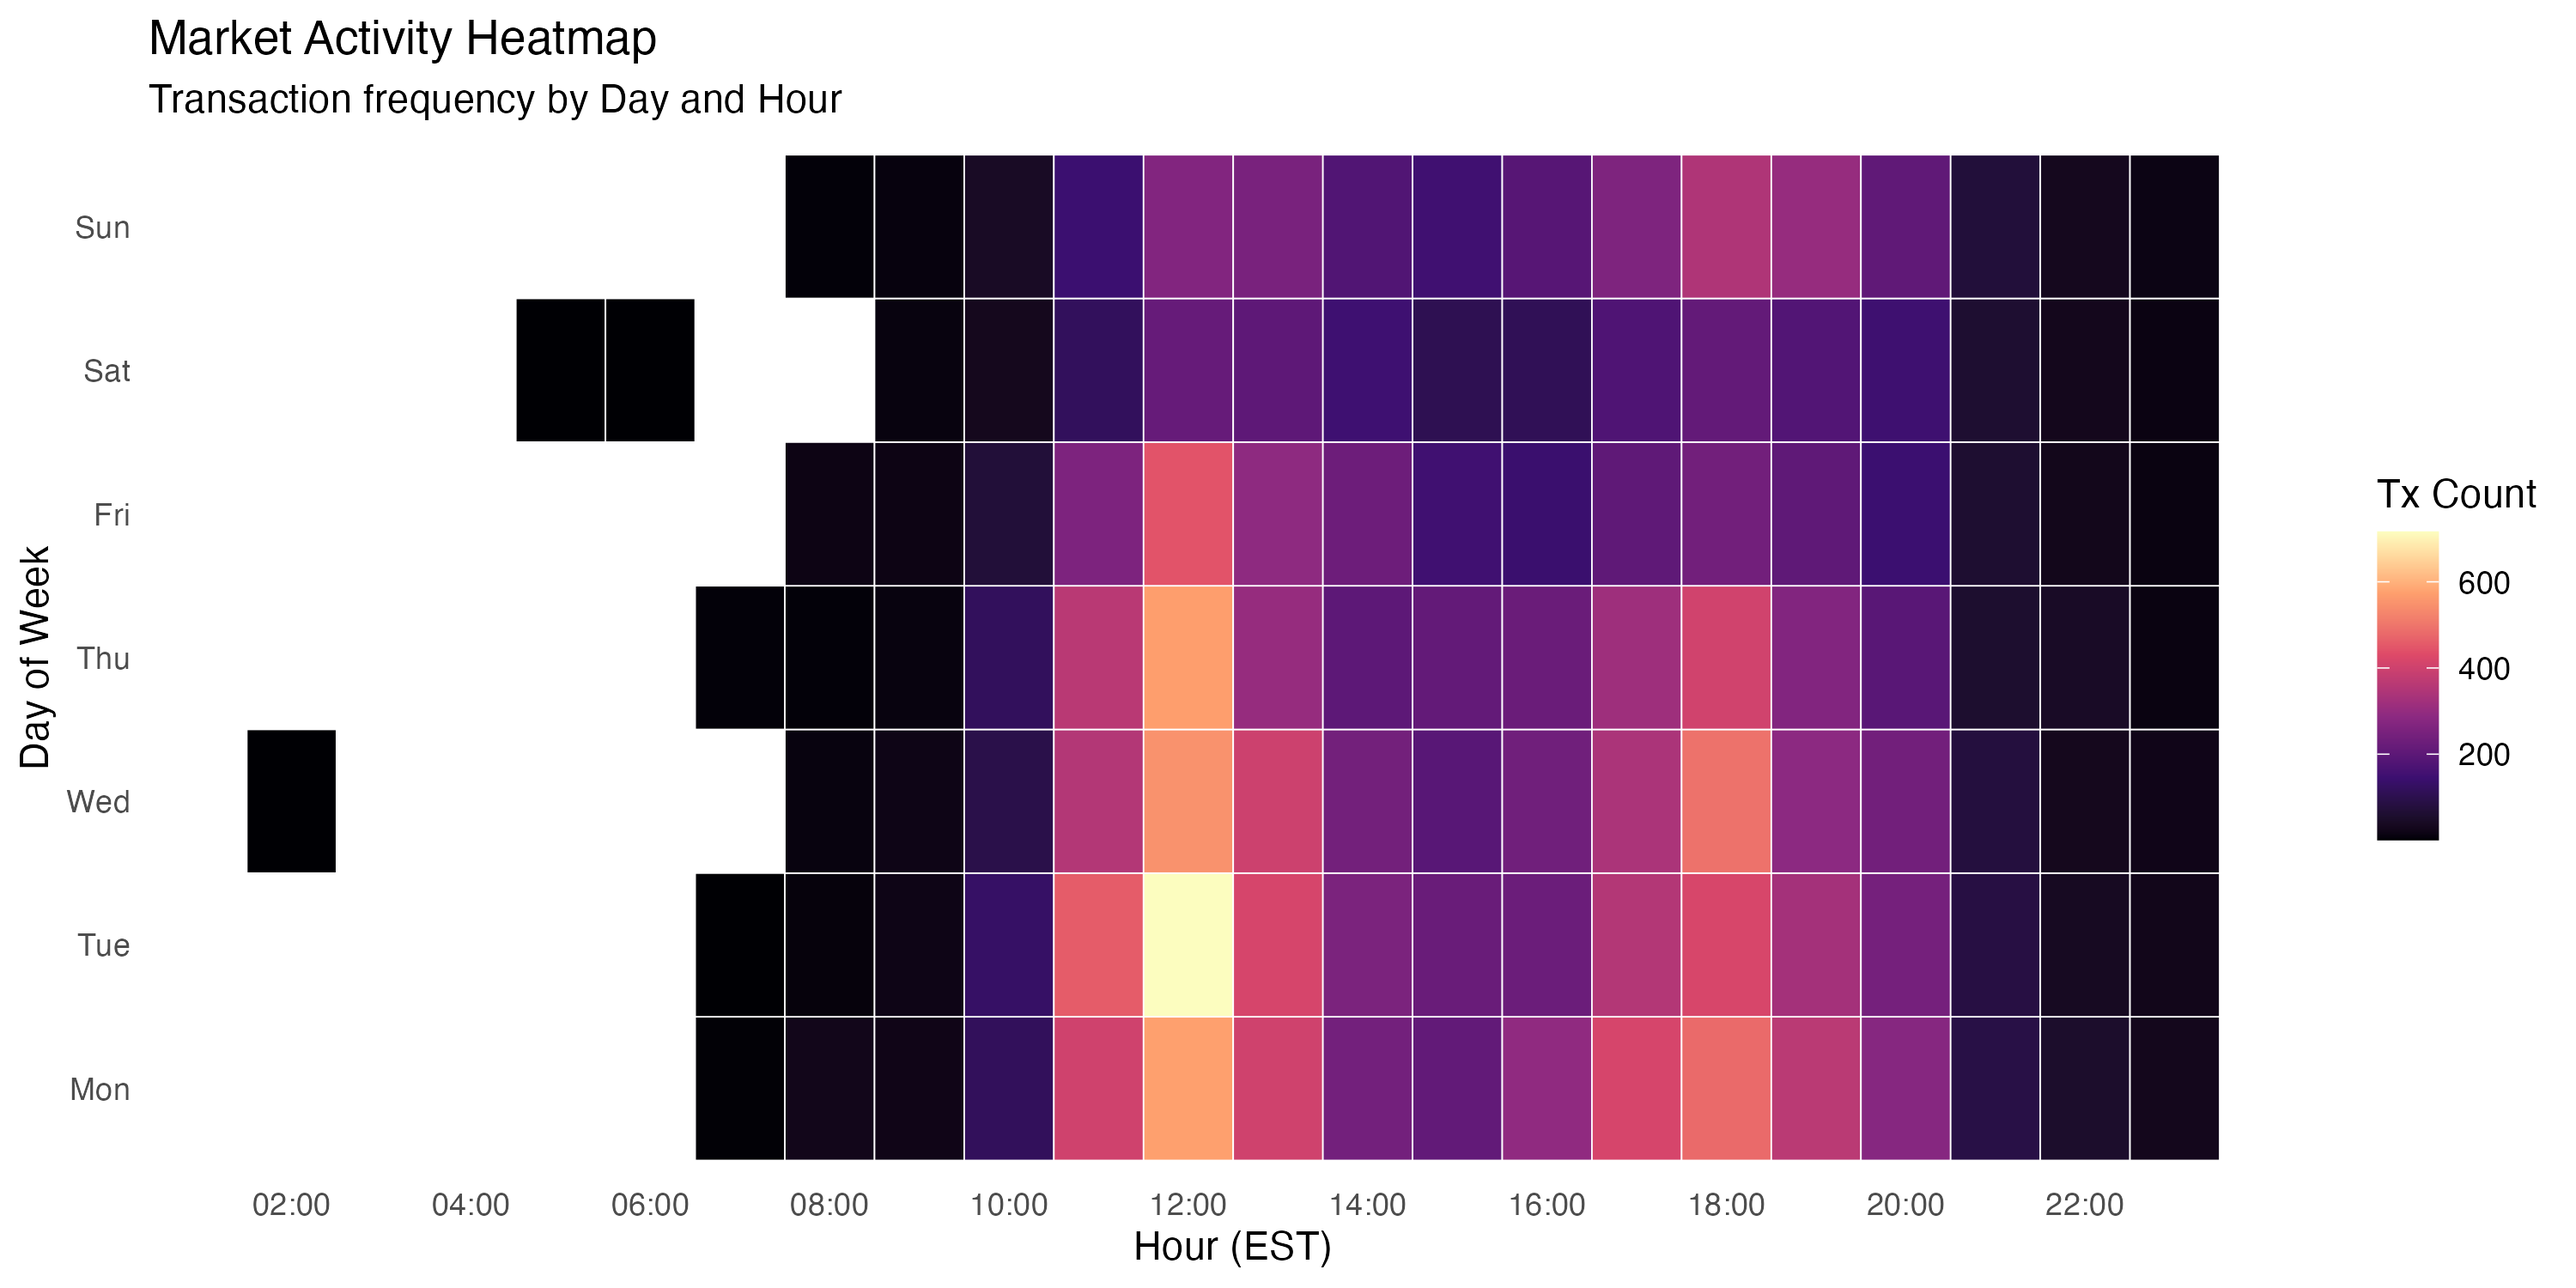
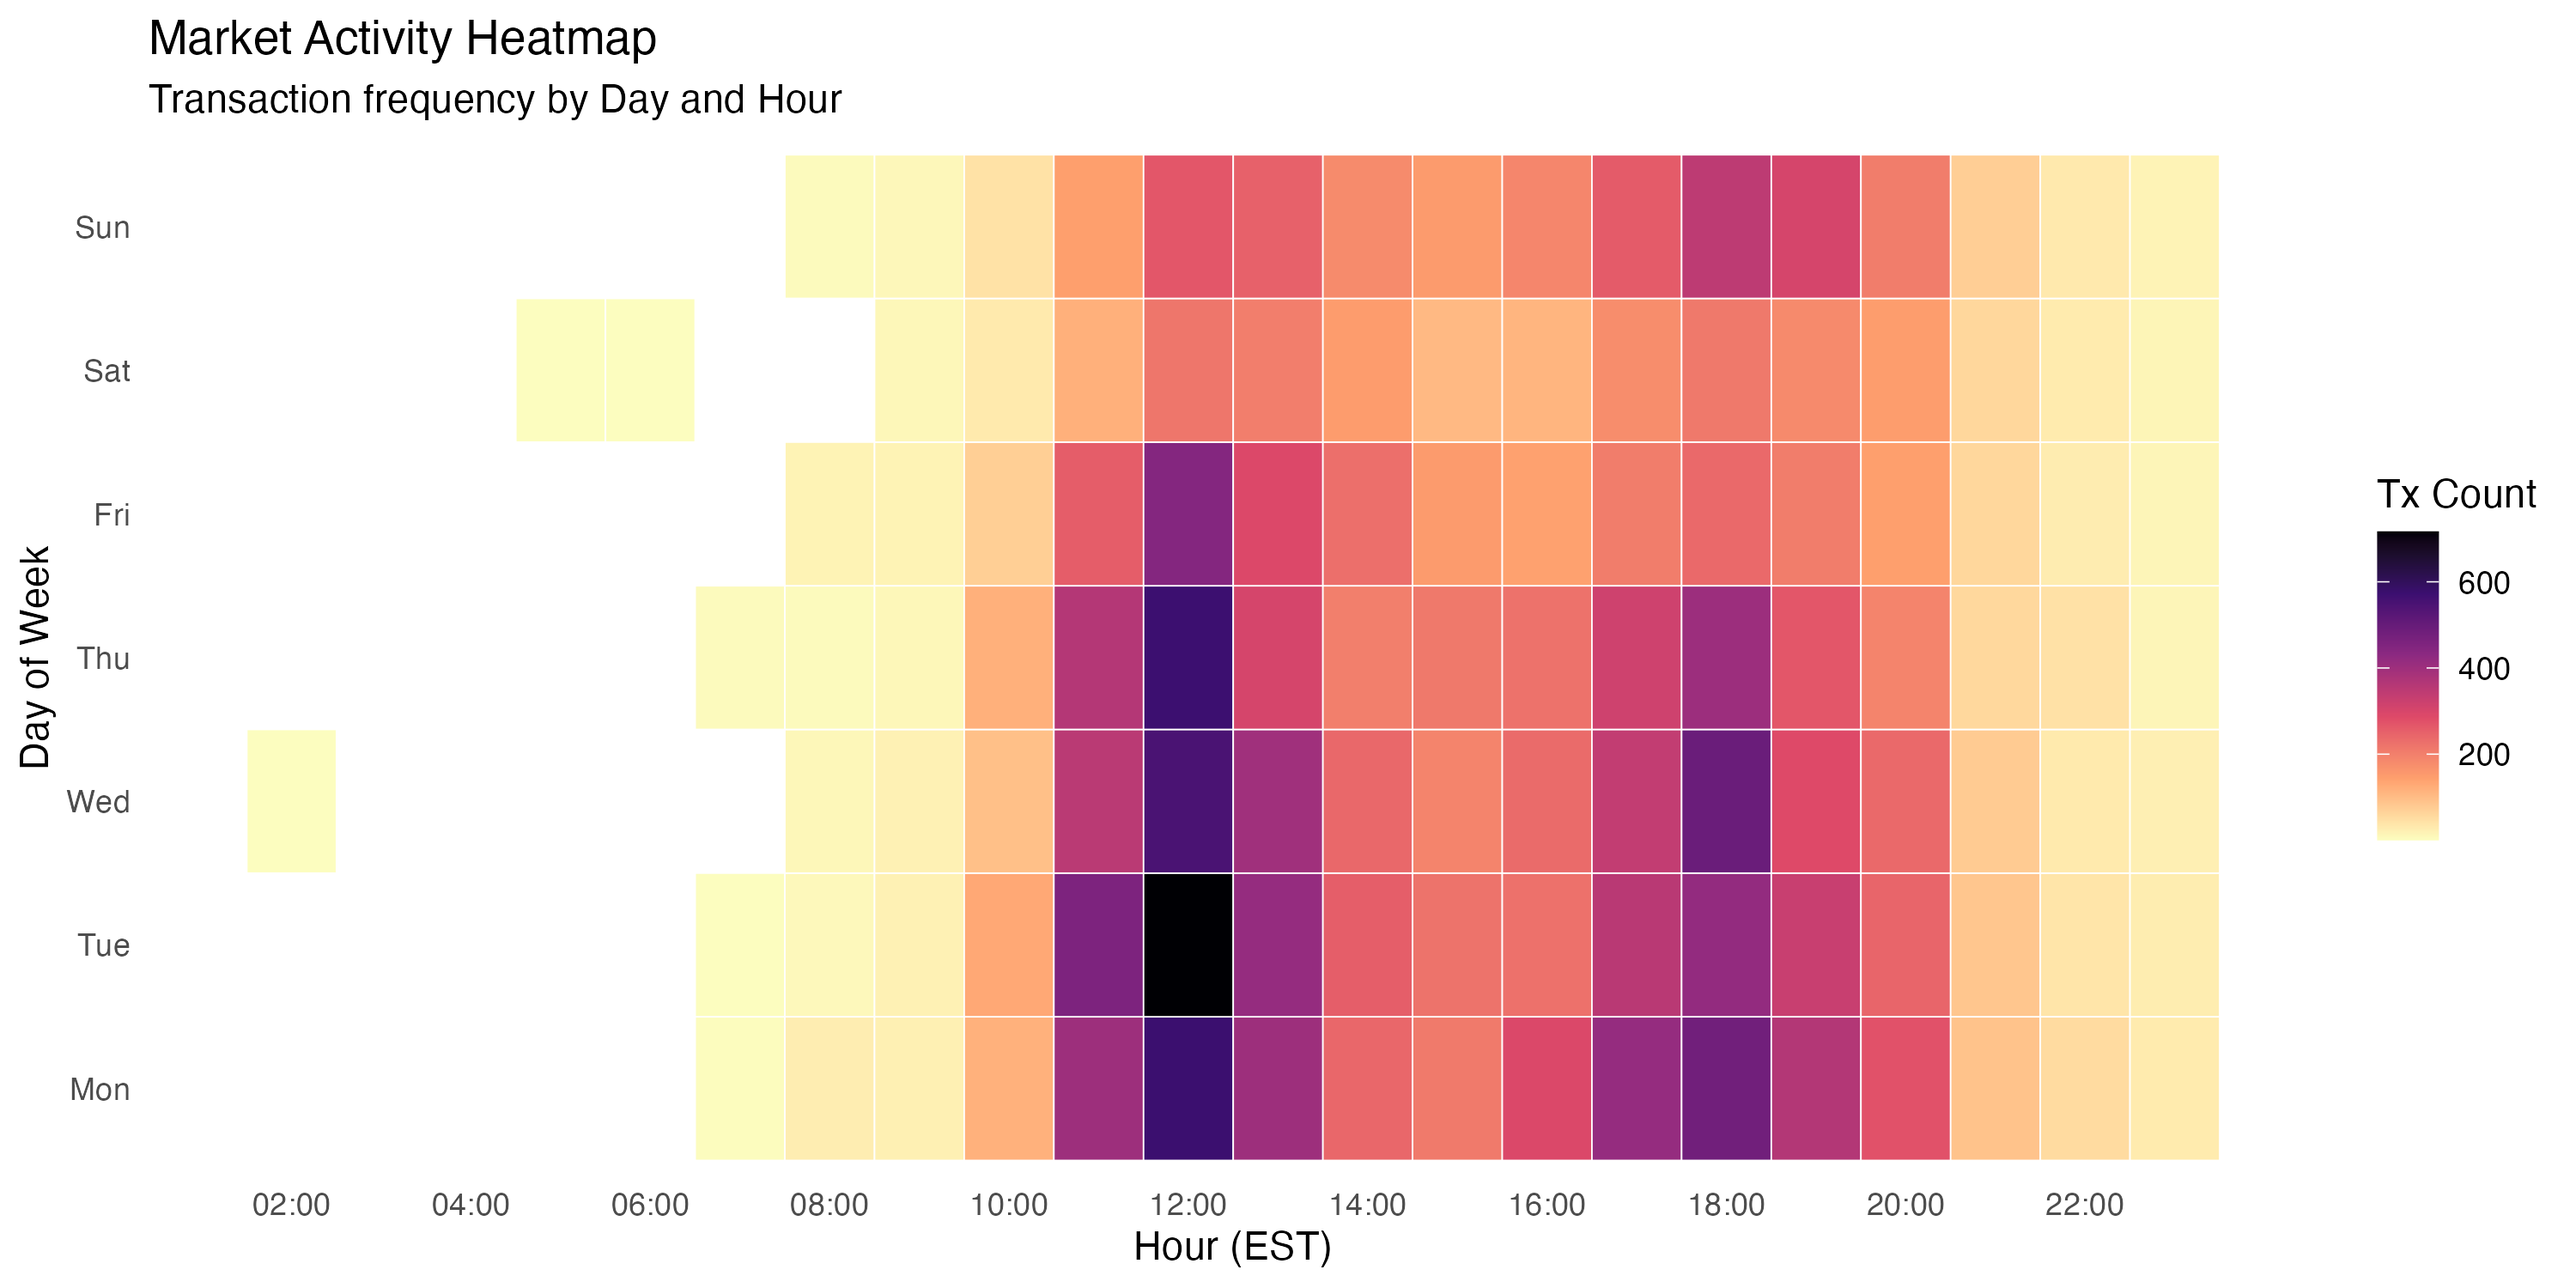
Update transaction histograms and heatmap with improved styling

diff --git a/README.md b/README.md
@@ -74,7 +74,7 @@ Monday is the busiest day, with activity tapering off towards the weekend.
 ![Daily Volume](hist_transactions_by_day.png)
 
 ### Activity Heatmap
-Visualizing the "hot zones" for trading activity.
+Visualizing the "hot zones" for trading activity. Colors range from Yellow (low activity) to Black (high activity).
 
 ![Activity Heatmap](heatmap_activity_day_hour.png)
 
